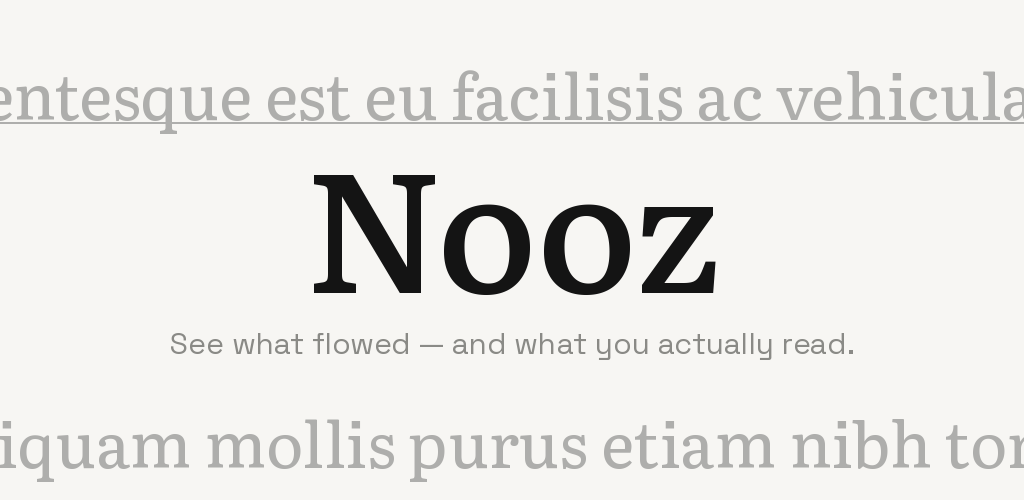
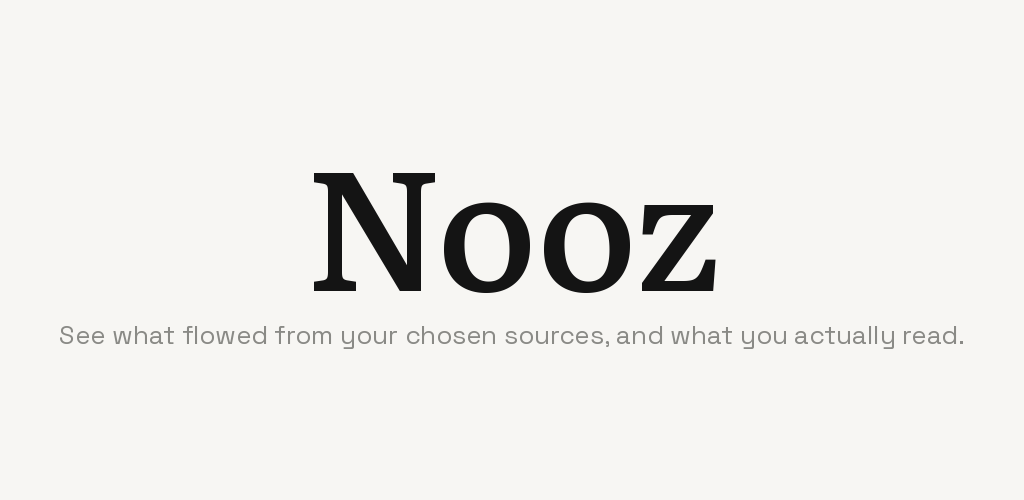
Simplify the feature graphic: drop the em dash and the greeked bleed text
The tagline now spells out the full short_description.txt line ("from your
chosen sources") instead of an em-dashed clause, and the greeked newsprint
lines bleeding off the top/bottom edges are gone — plain paper, just the
wordmark and the tagline.

diff --git a/fastlane/metadata/android/en-US/images/README.md b/fastlane/metadata/android/en-US/images/README.md
@@ -2,11 +2,11 @@
   drop); the launcher mipmaps under `app/src/main/res/mipmap-*` are downscaled
   from the same file.
 - `featureGraphic.png` — present (1024×500, Play only, opaque RGB — no alpha):
-  drawn programmatically from the exact splash-screen recipe (SplashScreen.kt)
-  — paperField background, greeked newsprint bleeding off both edges in the
-  splash's own onBackground-at-32%-alpha grey, the "Nooz" wordmark in Hyle
-  Print Medium, and the short_description.txt tagline beneath it in Hyle
-  Grotesk Classic — so it reads as the same object as the app icon and splash,
-  not a separate marketing graphic. Bundled fonts only, no external asset.
+  plain paperField background, the "Nooz" wordmark in Hyle Print Medium, and
+  the short_description.txt tagline beneath it in Hyle Grotesk Classic —
+  written out in full ("from your chosen sources") rather than an em-dashed
+  clause (owner: no em dash). No greeked newsprint bleed — plain paper, just
+  the mark and the line (owner: also drop the text above and below).
+  Bundled fonts only, no external asset.
 - `phoneScreenshots/` — still empty; populate with
   `scripts/capture_screenshots.sh` on a device/emulator.
